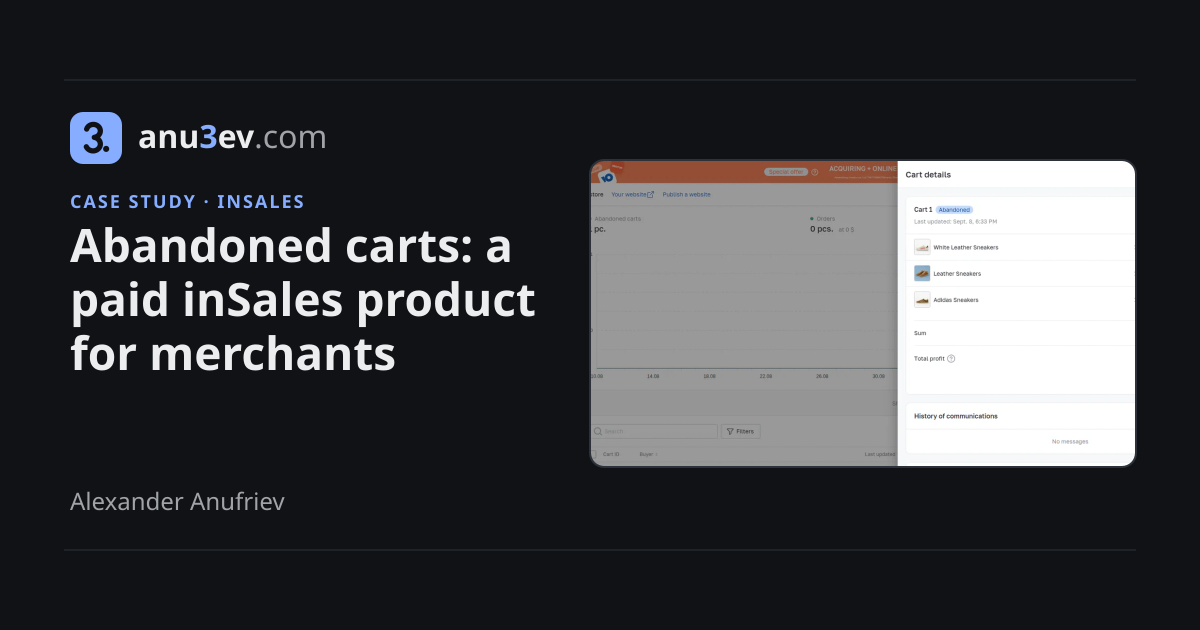
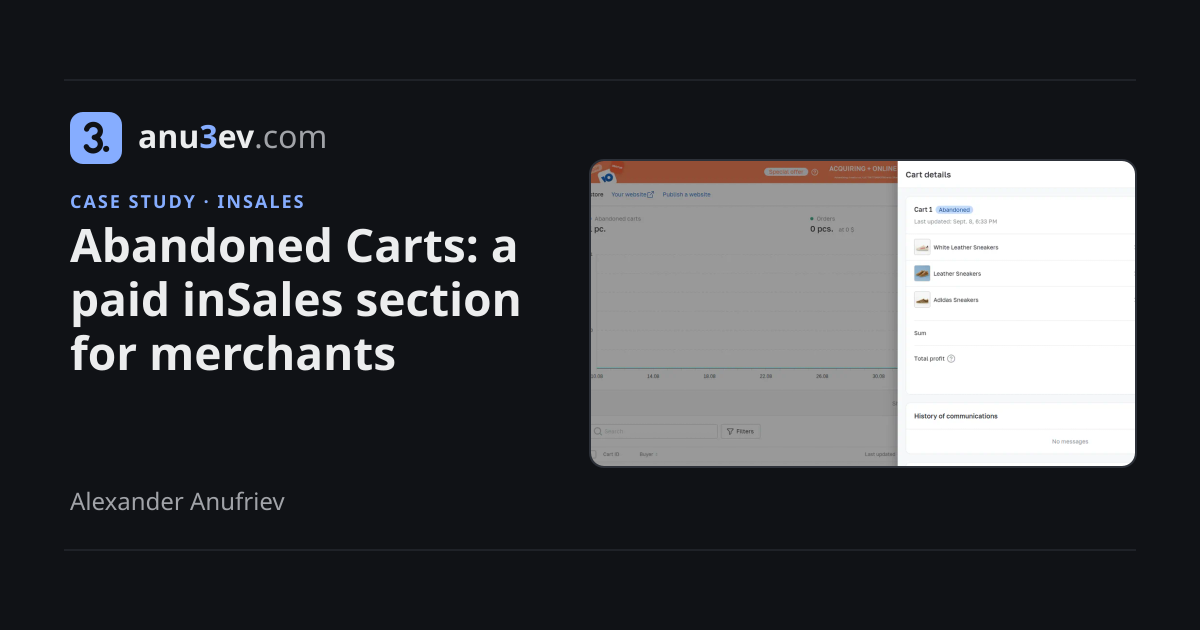
Abandoned carts case rebuilt from the project note; release 1.8.8

Changed region(s): [[0.2775, 0.4524, 0.4625, 0.5127], [0.2775, 0.3619, 0.4317, 0.4222]]

diff --git a/content/ru/projects/abandoned-carts.md b/content/ru/projects/abandoned-carts.md
@@ -1,6 +1,6 @@
 ---
-title: «Брошенные корзины» — платный продукт inSales для продавцов
-description: Аналитика, история корзин, фильтры и ручные, массовые и автоматические напоминания в админке inSales. Был единственным frontend-разработчиком; у продукта 200+ активных платных подписчиков.
+title: Платный раздел «Брошенные корзины» для продавцов inSales
+description: "Продавцы не видели, кто ушёл с корзиной и что в ней было. Я был единственным frontend-разработчиком платного раздела «Брошенные корзины»: аналитика, версии корзины и сообщения покупателям. За первую неделю раздел оплатили 11 магазинов, на сентябрь 2026 года у него 200+ подписок."
 locale: ru
 slug: abandoned-carts
 published: true
@@ -9,58 +9,95 @@ coverAlt: 'Дровер «Детали корзины» в админке inSale
 category: Инструменты для продавцов
 year: Октябрь 2024 – апрель 2025
 context: inSales
-role: "Единственный frontend-разработчик: требования, контракты API, разработка, релиз"
-stack: [Vue.js, JavaScript, Data Visualization, REST APIs, Front-End Development, State Management, Responsive Web Design, Requirements Analysis, Technical Documentation, Vue Router, Monaco Editor, E-Commerce Development, Software Architecture, ApexCharts, Software as a Service (SaaS)]
+role: "Единственный frontend-разработчик: требования, согласование API, разработка, релиз"
+stack: [Vue.js, JavaScript, Vue Router, ApexCharts, Monaco Editor, REST API]
 featured: false
 order: 5
 results:
   - value: "200+"
     label: "активных платных подписчиков на сентябрь 2026 года"
+  - value: "11"
+    label: "магазинов оплатили раздел за первую неделю после релиза, ещё до анонса"
   - value: "15%"
-    label: "клиентов одного магазина вернулись и завершили покупку, по кейсу inSales (май 2025)"
+    label: "клиентов «Хайтед» возвращаются и завершают покупку благодаря ретаргетингу (кейс inSales, май 2025)"
 ---
-
 ## Задача
 
-Пока покупатель не оформил заказ, у магазина нет карточки заказа, с которой можно работать. Но товары уже выбраны, и продавцу полезно знать, что именно человек положил в корзину, на какую сумму и менялся ли состав. «Брошенные корзины» — платный продукт inSales, который позволяет с этим что-то сделать: найти незавершённые покупки зарегистрированных покупателей, изучить их и написать покупателю прямо из админки.
+Покупатель набрал товары в корзину интернет-магазина и ушёл, не оформив заказ. До нового раздела продавец на inSales мог отправить такому покупателю только одно автоматическое письмо по шаблону из раздела «Диалоги». В январе 2025 года этот шаблон был включён у 259 платящих магазинов. При этом продавец не видел, кто ушёл, что лежало в корзине и сработало ли напоминание. По оценке тимлида на октябрь 2024 года, у 325 магазинов набиралось более 50 брошенных корзин в месяц, а у 1 077 магазинов было хотя бы 10.
 
-В продукте собраны аналитика, таблица корзин с фильтрами, детали и история корзины, история коммуникаций, шаблоны сообщений с предпросмотром и платный доступ. Всё это связано между собой: фильтр определяет получателей массовой рассылки, выбранная корзина даёт данные для предпросмотра, отправка обновляет таблицу и историю.
+Новый платный раздел «Брошенные корзины» должен был показать продавцу каждую брошенную корзину с составом, суммой и историей изменений, чтобы продавец мог написать покупателю по email, SMS или в мессенджер, вручную или автоматически. Раздел работает только с корзинами зарегистрированных покупателей: собирать корзины неавторизованных посетителей нарушало бы законодательство.
 
 ## Моя роль
 
-Был единственным frontend-разработчиком, работал с backend-разработчиком, продакт-менеджером, дизайнером и QA. Поначалу задача во многом состояла из макетов. Я превратил их в технические требования: сущности, состояния, пограничные случаи и структуру JSON для каждого блока — согласовал с дизайнером и backend-разработчиком. Дальше разбил работу на задачи, сделал интерфейс, расписал сценарии для QA и довёл раздел через ревью до релиза. Хранение корзин, расчёт аналитики и отправку по расписанию делает backend. Основная разработка шла с октября 2024 по апрель 2025 года итерациями, параллельно с другими задачами.
+Я был единственным frontend-разработчиком в команде, где также работали backend-разработчик, продакт-менеджер, дизайнер и QA. Backend-разработчик делал хранение корзин, расчёт аналитики и отправку сообщений по расписанию, а я отвечал за frontend раздела: от технических требований и согласования API до тестирования и выкатки. Основная разработка шла с октября 2024 по апрель 2025 года, итерациями и параллельно с другими задачами.
+
+Вначале задача во многом состояла из макетов. Я превратил их в технические требования: определил сущности и состояния, разобрал спорные сценарии и пограничные случаи, согласовал логику раздела с дизайнером, а структуру данных для каждого блока с backend-разработчиком. Структуру API для frontend я в основном предлагал сам. Например, сначала один запрос возвращал и статус подключения раздела, и все корзины сразу, из-за чего таблицу нельзя было вынести в отдельный компонент. Я предложил проверять статус отдельным запросом, в ноябре 2024 года так и сделали, и после этого я вынес таблицу в отдельный компонент. Встречи по проекту часто собирал я: составлял повестку, а после созвона писал итоги с решениями и ответственными.
 
 ## Что я сделал
 
-### Корзина — это история, а не строка таблицы
+### Аналитика показывает, сколько денег осталось в корзинах
 
-Покупатель может уйти, вернуться и поменять состав. Это одна корзина с несколькими сохранёнными версиями, а не две потерянные продажи. Модель мы согласовали вместе: сессия корзины, версия, актуальная версия, оформленный заказ и сообщения, привязанные к конкретной версии. В таблице номер корзины стабильный и не меняется при каждом обновлении, в деталях видны 10 последних версий. Один товар может лежать в корзине дважды с разными опциями, поэтому строки истории я различал по ключу позиции, а не по `id` товара.
+С аналитики начинается раздел, и её выкатили первой, 28 октября 2024 года. Продавец видит среднюю стоимость брошенной корзины, сумму товаров в неоформленных корзинах, число брошенных корзин, их динамику и конверсию корзин в заказы. Бизнес-показатели считаются на сервере. Пока серверная часть не была готова, я собирал интерфейс на моках.
 
-### Сообщение показывает корзину на момент отправки
+От цифр продавец переходит к таблице корзин с поиском и фильтрами, например по наличию email или телефона, а корзина из таблицы открывается в дровере «Детали корзины», боковой панели поверх страницы. Период аналитики не зависит от фильтров таблицы, поэтому продавец может смотреть динамику за месяц и одновременно работать со своей выборкой корзин.
 
-Если открыть сообщение из истории, интерфейс показывает состав корзины на момент отправки, а не текущий. Если подставить туда последнюю версию, история общения с покупателем исказится. Статусы «не отправлено», «ошибка» и «отправлено» в истории тоже различаются. После успешной отправки таблица и детали корзины перезагружаются, чтобы статус на экране не опережал сервер.
+### Корзина хранит историю версий
 
-### Экран обновляет только последний ответ
+Одной из главных задач было согласовать, что считать одной корзиной. Покупатель может уйти, вернуться и поменять состав. Это одна корзина с несколькими сохранёнными версиями, а не два покупателя и не две потерянные продажи. Версия создаётся, когда корзина не меняется заданное в настройках время, а после оформления заказа новая корзина начинает новую цепочку версий. В таблице продавец видит одну корзину с актуальной версией, номер которой не меняется при обновлении состава, а предыдущие версии становятся её историей.
 
-Продавец печатает в поиске, листает страницы, открывает одну корзину за другой, не дожидаясь ответов. Запоздавший ответ на старый запрос не должен затирать свежие результаты. Я помечал поисковые запросы идентификаторами и отбрасывал устаревшие ответы, отменял загрузку дровера через `AbortController` при закрытии и перестал рендерить закрытые дроверы, чтобы скрытая панель не реагировала на изменения данных. Поиск, фильтры, пагинация и открытая корзина хранятся в URL: после перезагрузки или по присланной ссылке открывается тот же экран.
+![Дровер «Детали корзины» в админке inSales: три товара, сумма корзины, кнопка оформления заказа и пустая история коммуникаций](/images/work/abandoned-carts/cart-details-drawer.webp)
+
+В деталях корзины видны 10 последних версий, и это ограничение появилось из-за случая, который я проверил заранее. Если время, через которое корзина считается брошенной, задать небольшим, у одной корзины быстро набирается много версий. Я создал на локальном стенде корзину с 200 версиями, и её история загружалась около 20 секунд. На продакшене на 25 ноября 2024 года самые длинные цепочки доходили до 74 версий, и коллеги считали, что до 200 не дойдёт, но я настоял, что такой случай лучше учесть до релиза, чем потом переделывать раздел.
+
+Один товар может присутствовать в корзине в виде нескольких экземпляров с разными опциями, поэтому в истории изменений я различал позиции по ключу `key`, а не по `id` товара. Иначе интерфейс принял бы две разные позиции за одну.
+
+### Экран показывает ответ только на последний запрос
+
+Продавец печатает в поиске, листает страницы и открывает одну корзину за другой, не дожидаясь ответов. Если на экран попадёт запоздавший ответ на старый запрос, продавец увидит не того покупателя или не ту версию товаров. Поэтому я помечал поисковые запросы идентификаторами и отбрасывал ответы, которые пришли не на последний запрос. Загрузку дровера я отменял через `AbortController`, стандартный браузерный механизм отмены запросов, если дровер закрывали.
+
+Поиск, фильтры, номер страницы и открытая корзина хранятся в URL, поэтому после перезагрузки или по присланной ссылке открывается тот же экран.
+
+### Каждый канал настраивается отдельно
+
+Для автоматических напоминаний продавец задаёт, через сколько корзина считается брошенной и через сколько после этого уходит напоминание. Сами напоминания по расписанию отправляет сервер, поэтому они уходят, даже когда у продавца не открыта админка.
+
+Сначала включить автоматическую отправку можно было только в «Диалогах». А 5 декабря 2024 года я нашёл проблему: из раздела можно было отправить письмо вручную, но если у магазина не была настроена доменная почта, письмо никуда не уходило, и интерфейс об этом ничего не говорил. После созвона 6 декабря решили сделать у каждого канала свои настройки: состояние подключения, переключатель автоматической отправки, задержку и шаблон, а для ненастроенного канала показывать сообщение со ссылкой на подключение. В форме отправки остались только работающие каналы.
 
 ![Настройки брошенных корзин: время, через которое корзина считается брошенной, и шаблон письма в редакторе кода](/images/work/abandoned-carts/reminder-settings-email-template.webp)
 
-*Настройки напоминаний: когда корзина считается брошенной, затем задержка и шаблон для каждого канала.*
+В продукте пять каналов: email, SMS, WhatsApp, Telegram и Viber. Какие из них доступны, зависит от настроек и региона аккаунта: например, для российских аккаунтов Viber скрыт.
 
-### У доступа больше двух состояний
+### Массовая отправка показывает, кому сообщение не уйдёт
 
-Одного признака «подписка есть» не хватало. Сервер отдаёт состояние пробного периода и его окончание, просрочку оплаты, счета, цену и остаток сообщений, и от этого зависят баннеры, кнопки и настройки. После запуска пробного периода настройки становятся доступны сразу. Платёжный компонент создаётся только при открытии диалога оплаты, чтобы скрытое окно не запускало свои операции.
+Продавец может написать одному покупателю или выбрать несколько корзин и отправить общее сообщение. При массовой отправке у части выбранных покупателей может не быть email или телефона. Я поднял вопрос, отправлять ли тогда сообщение остальным или не отправлять никому, и предложил не блокировать канал, если нужный контакт есть хотя бы у одного выбранного покупателя. По итогам обсуждения массовую отправку сделали только по email и SMS, добавили фильтры «есть email» и «есть телефон», и форма стала показывать, у скольких покупателей нет нужного контакта, и предлагать отфильтровать подходящие корзины. Для этого я предложил новую структуру данных формы, и backend-разработчик её сделал.
 
-### Три способа отправки и один процесс работы с шаблоном
+Действие «выбрать все корзины на всех страницах» мы не стали делать. У магазина могут быть десятки тысяч корзин: данные для всех пришлось бы собирать серией запросов несколько минут, а отправка сообщений сразу всем этим покупателям могла перегрузить сервер. Поэтому выбор работает на текущей странице, и его можно дополнить на следующих.
 
-Продавец может написать одному покупателю, выбрать корзины на нескольких страницах для массового письма или SMS либо настроить автоматические напоминания по каждому каналу. Перед массовой отправкой форма показывает, у скольких выбранных покупателей нет нужного контакта, и предлагает их отфильтровать. Действие «выбрать вообще все корзины» мы сознательно не стали делать: оно могло дать большую нагрузку. Шаблоны редактируются в нашем общем [редакторе на Monaco](/ru/work/monaco-editor/), а предпросмотр подставляет в Liquid товары, количество и суммы выбранной корзины.
+### Шаблоны редактируются как код, с предпросмотром
+
+Сообщения строятся по шаблонам на Liquid, языке шаблонов, через который в текст подставляются имя покупателя, товары, цены и ссылки. Сначала шаблоны писем редактировались в визуальном редакторе TinyMCE, и он ломал Liquid: кодировал часть символов и обрезал теги и атрибуты, после чего сервер уже не мог использовать сохранённый текст как шаблон. Я предложил заменить его редактором исходного кода с предпросмотром, а затем сделать то же для SMS и мессенджеров, потому что в их шаблонах тоже есть Liquid-переменные и им тоже нужен предпросмотр.
+
+Я подключил общую сборку [редактора на Monaco](/ru/work/monaco-editor/), над которой работал раньше. Предпросмотр запрашивает у сервера шаблон, заполненный данными конкретной корзины: именем покупателя, товарами, количеством, ценами и итогом, поэтому продавец видит готовое сообщение до отправки.
 
 ![Предпросмотр письма с данными выбранной корзины рядом с формой сообщения](/images/work/abandoned-carts/email-preview-with-cart-data.webp)
 
+### Сообщение показывает корзину на момент отправки
+
+Каждое отправленное сообщение попадает в историю коммуникаций и связано с конкретной версией корзины. Если покупатель поменял товары после напоминания, сообщение показывает состав корзины на момент отправки, а не текущий. Иначе история общения с покупателем исказилась бы, и продавец не понял бы, что именно уже предлагал. После отправки таблица и детали корзины загружаются заново, чтобы принятый сервером запрос не выглядел как доставленное сообщение.
+
+### У доступа больше двух состояний
+
+Раздел платный, поэтому магазин сначала запускает пробный период на 7 дней и 100 сообщений, а потом подключает подписку за 1 000 ₽ в месяц. Одного признака «подписка есть» для интерфейса не хватало: сервер отдаёт состояние пробного периода, дату его окончания, просрочку оплаты, счета, стоимость и остаток сообщений, и от этого зависят баннеры, кнопки и настройки. Когда доступ меняется, интерфейс обновляется сразу: например, после запуска пробного периода становятся доступны настройки.
+
+### Перед релизом раздел прошёл тестирование QA
+
+Я описывал сценарии для QA: закрытие дровера во время запроса, повторный поиск, пустая выборка, товары с опциями, связь корзины с заказом, отсутствие контактов, состояние канала и предпросмотр шаблона. К 16 декабря 2024 года QA нашли более 40 багов, которые исправили перед релизом.
+
+Раздел адаптирован под десктоп и мобильные. Для него я доработал календарь, фильтр и таблицу в UI kit, общей библиотеке интерфейсных компонентов inSales.
+
 ## Результат
 
-- У продукта 200+ активных платных подписчиков (на сентябрь 2026 года). Базовая цена — 1 000 ₽ в месяц после 7-дневного пробного периода.
-- В кейсе, опубликованном в мае 2025 года, inSales сообщает, что ретаргетинг по брошенным корзинам принёс одному магазину, «Хайтед», 100–350 тыс. ₽ в месяц, а 15% клиентов возвращаются и завершают покупку. Это результат одного магазина, а не средний по платформе, и он не сводится к работе frontend.
-- Аналитику выпустили в октябре 2024 года, остальной frontend доделали и выпустили к апрелю 2025-го.
-- Раздел адаптирован под десктоп и мобильные, а доработки date picker, фильтра и таблицы вошли в общий UI kit.
+- Раздел выкатили в продакшен 31 марта 2025 года. За первую неделю, ещё до анонса, его оплатили 11 магазинов.
+- На сентябрь 2026 года у раздела более 200 активных платных подписчиков.
+- Продавец видит в одном разделе, кто ушёл с корзиной, что в ней было и как менялся состав, и пишет покупателю вручную, массово или автоматически.
+- В [кейсе от 20 мая 2025 года](https://www.insales.ru/blogs/cases/hited) inSales сообщает, что ретаргетинг по брошенным корзинам, то есть повторные сообщения покупателям, которые не оформили заказ, приносит магазину «Хайтед» 100–350 тыс. ₽ в месяц, а 15% клиентов возвращаются и завершают покупку.

diff --git a/content/en/projects/abandoned-carts.md b/content/en/projects/abandoned-carts.md
@@ -1,6 +1,6 @@
 ---
-title: "Abandoned carts: a paid inSales product for merchants"
-description: Analytics, cart history, filters and manual, bulk and automatic reminders in the inSales admin. I was the sole frontend developer; the product has 200+ active paid subscribers.
+title: "Abandoned Carts: a paid inSales section for merchants"
+description: "Merchants couldn’t see who left a cart or what was in it. I was the only frontend developer of Abandoned Carts, a paid inSales section with analytics, cart versions and messages to buyers. 11 stores paid for it in the first week; by September 2026 it had 200+ subscribers."
 locale: en
 slug: abandoned-carts
 published: true
@@ -9,58 +9,95 @@ coverAlt: Cart details drawer in the inSales admin listing three products, the c
 category: Merchant tools
 year: Oct 2024 – Apr 2025
 context: inSales
-role: "Sole frontend developer: requirements, API contracts, implementation, release"
-stack: [Vue.js, JavaScript, Data Visualization, REST APIs, Front-End Development, State Management, Responsive Web Design, Requirements Analysis, Technical Documentation, Vue Router, Monaco Editor, E-Commerce Development, Software Architecture, ApexCharts, Software as a Service (SaaS)]
+role: "Sole frontend developer: requirements, API design with the backend, implementation, release"
+stack: [Vue.js, JavaScript, Vue Router, ApexCharts, Monaco Editor, REST API]
 featured: false
 order: 5
 results:
   - value: "200+"
     label: "active paid subscribers by September 2026"
+  - value: "11"
+    label: "stores paid for the section in the first week after release, before any announcement"
   - value: "15%"
-    label: "of one merchant’s customers returned to complete a purchase, per an inSales case study (May 2025)"
+    label: "of Hited’s customers come back and complete a purchase thanks to retargeting (inSales case study, May 2025)"
 ---
-
 ## The problem
 
-Before checkout, a store has no order to work with. Yet the shopper has already picked products, and the merchant would like to know what they chose, for how much, and whether the cart changed since. Abandoned Carts is a paid inSales product that turns this into something to act on: the merchant finds unfinished purchases by registered customers, inspects them and follows up from the admin.
+A buyer adds products to an online store’s cart and leaves without placing an order. Before the new section, a merchant on inSales could send such a buyer only one automatic email, from a template in the Dialogues section. In January 2025, 259 paying stores had that template turned on. But the merchant couldn’t see who had left, what was in the cart or whether the reminder worked. According to the team lead’s estimate in October 2024, 325 stores had more than 50 abandoned carts a month, and 1,077 stores had at least 10.
 
-The product combines analytics, a cart table with filters, cart details and history, communication history, message templates with preview, and paid access. Each of these depends on the others: a filter decides who gets a bulk message, the selected cart feeds the preview, a send updates the table and the history.
+The new paid Abandoned Carts section had to show the merchant every abandoned cart with its products, total and history of changes, so the merchant could write to the buyer by email, SMS or a messenger, manually or automatically. The section works only with carts of registered buyers: collecting the carts of visitors who aren’t signed in would break the law.
 
 ## My role
 
-I was the only frontend developer, working with a backend developer, a product manager, a designer and QA. The task started mostly as mockups. I turned them into technical requirements: entities, states and edge cases, and the JSON structure for every block, agreed with the designer and the backend developer. Then I split the work, built the interface, wrote QA scenarios and took it through review and release. The backend stores carts, calculates analytics and runs scheduled sending. Main development ran from October 2024 to April 2025, in iterations alongside other work.
+I was the only frontend developer on a team with a backend developer, a product manager, a designer and a QA engineer. The backend developer built cart storage, the analytics calculations and scheduled sending, and I owned the section’s frontend: from technical requirements and agreeing the API with the backend developer to testing and release. The main development ran from October 2024 to April 2025, in iterations and alongside other tasks.
+
+At first, the task was mostly a set of mockups. I turned them into technical requirements: I defined the entities and states, worked through unclear scenarios and edge cases, agreed on the section’s logic with the designer and on the data structure for each block with the backend developer. I proposed most of the API structure for the frontend myself. For example, at first one request returned both the section’s connection status and all carts at once, so the table couldn’t be moved into a separate component. I suggested checking the status with a separate request; in November 2024 that was done, and I then moved the table into its own component. I often organized the project meetings: I wrote the agenda, and after each call I wrote up the decisions and who was responsible for what.
 
 ## What I built
 
-### A cart is a history, not a row
+### The analytics show how much money is left in carts
 
-A shopper can leave a cart, come back and change it. That is one cart with several saved versions, not two lost sales. We agreed on the model together: cart session, version, latest version, resulting order, and messages tied to a specific version. The table shows a stable cart number that does not change with each update, and cart details show the last 10 versions. A product can appear twice with different options, so I keyed history rows by line-item key instead of product ID.
+The section starts with analytics, which shipped first, on 28 October 2024. The merchant sees the average abandoned cart value, the total value of products in carts without an order, the number of abandoned carts, their trend over time and the cart-to-order conversion rate. The business metrics are calculated on the server. While the server side wasn’t ready, I built the interface on mock data.
 
-### Messages keep the cart they were sent about
+From the numbers, the merchant moves to a table of carts with search and filters, for example by whether the buyer has an email or a phone number, and a cart from the table opens in the Cart details drawer, a side panel over the page. The analytics period doesn’t depend on the table filters, so the merchant can look at the trend for a month while working with their own selection of carts.
 
-When a merchant opens a message from the history, the interface shows the cart contents at the time it was sent, not the current ones. Showing the latest contents there would quietly rewrite the conversation with the customer. History also distinguishes not sent, failed and sent, and after a successful send the table and cart details reload, so the status never runs ahead of the server.
+### A cart keeps a history of versions
 
-### Only the latest response may update the screen
+One of the main tasks was to agree on what counts as one cart. A buyer can leave, come back and change the products. That’s one cart with several saved versions, not two buyers and not two lost sales. A version is created when the cart stays unchanged for a time set in the settings, and after an order is placed, a new cart starts a new chain of versions. In the table, the merchant sees one cart with its current version; the cart’s number stays the same when the products change, and the earlier versions become its history.
 
-Merchants type in search, flip pages and open one cart after another before responses arrive. A late answer to an old query must not replace newer results. I tagged search requests with IDs and dropped stale responses, cancelled drawer loads with `AbortController` when the drawer closed, and stopped rendering closed drawers so a hidden panel cannot react to data changes. Search, filters, pagination and the open cart live in the URL, so a page reload or a shared link restores the same view.
+![Cart details drawer in the inSales admin listing three products, the cart total, a Place an order button and an empty communication history](/images/work/abandoned-carts/cart-details-drawer.webp)
+
+The cart details show the last 10 versions, and this limit comes from a case I checked in advance. If the time after which a cart counts as abandoned is set short, one cart quickly collects many versions. I created a cart with 200 versions in my local environment, and its history took about 20 seconds to load. As of 25 November 2024, the longest chains in production reached 74 versions. Colleagues thought it would never get to 200, but I insisted it was better to handle this case before the release than to rework the section later.
+
+The same product can appear in a cart as several items with different options, so in the history of changes I distinguished items by the item `key`, not by the product `id`. Otherwise the interface would have treated two different items as one.
+
+### The screen shows only the response to the latest request
+
+A merchant types in the search box, goes through pages and opens one cart after another without waiting for responses. If a late response to an old request reached the screen, the merchant would see the wrong buyer or the wrong version of the products. So I tagged search requests with IDs and dropped responses that didn’t belong to the latest request. I canceled drawer loading with `AbortController`, the standard browser way to cancel requests, when the merchant closed the drawer.
+
+Search, filters, the page number and the open cart are stored in the URL, so after a reload or from a shared link the same screen opens.
+
+### Each channel has its own settings
+
+For automatic reminders, the merchant sets how long it takes before a cart counts as abandoned and how long after that the reminder goes out. The server sends the scheduled reminders, so they go out even when the merchant doesn’t have the inSales admin open.
+
+At first, automatic sending could be turned on only in Dialogues. Then, on 5 December 2024, I found a problem: a merchant could send an email manually from the section, but if the store had no email on its own domain set up, the email was never sent and the interface said nothing about it. After a call on 6 December, we decided that each channel would get its own settings: whether the channel is set up, an automatic sending toggle, a delay and a template, and a channel that isn’t set up shows a message with a link to connect it. The send form now shows only channels that work.
 
 ![Abandoned cart settings with the time before a cart counts as abandoned and an email template in the code editor](/images/work/abandoned-carts/reminder-settings-email-template.webp)
 
-*Reminder settings: when a cart counts as abandoned, then a per-channel delay and template.*
+The product has five channels: email, SMS, WhatsApp, Telegram and Viber. Which ones are available depends on the store’s settings and region: for example, Viber is hidden for Russian accounts.
 
-### Access has more than two states
+### Bulk sending shows who won’t get the message
 
-One "subscribed" flag was not enough. The server returns trial state and expiry, overdue payment, invoices, price and remaining message limits, and those drive banners, buttons and settings. After a trial starts, settings become available immediately. The payment component is created only when its dialog opens, so a hidden dialog never starts its own operations.
+A merchant can write to one buyer, or select several carts and send one message to all of them. In bulk sending, some of the selected buyers may have no email or phone number. I raised the question of whether to send the message to the rest or to nobody, and suggested not blocking a channel if at least one selected buyer has the needed contact. After the discussion, bulk sending was limited to email and SMS, and "has email" and "has phone" filters were added. The form now shows how many buyers lack the needed contact and offers to filter for suitable carts. For that, I proposed a new data structure for the form, and the backend developer built it.
 
-### Three ways to send, one template workflow
+We didn’t build a "select all carts on all pages" action. A store can have tens of thousands of carts: collecting data for all of them would take a series of requests lasting several minutes, and sending messages to all those buyers at once could overload the server. So selection works on the current page, and the merchant can add carts from other pages.
 
-Merchants can message one customer, select carts across pages for a bulk email or SMS, or configure automatic reminders per channel. Before a bulk send, the form shows how many selected customers lack the required contact and offers to filter them out. We deliberately left out a "select every cart" action because of the load it could create. Templates are edited in our shared [Monaco-based editor](/work/monaco-editor/), and the preview renders Liquid with the selected cart’s products, quantities and totals.
+### Templates are edited as code, with a preview
+
+Messages are built from templates in Liquid, a template language that inserts the buyer’s name, products, prices and links into the text. At first, email templates were edited in the TinyMCE visual editor, and it broke Liquid: it encoded some characters and removed tags and attributes, after which the server could no longer use the saved text as a template. I suggested replacing it with a source code editor with a preview, and then doing the same for SMS and messengers, because their templates also contain Liquid variables and also need a preview.
+
+I reused the shared [Monaco editor build](/work/monaco-editor/) I had worked on before. The preview asks the server for the template filled with a specific cart’s data: the buyer’s name, products, quantities, prices and total, so the merchant sees the final message before sending it.
 
 ![Email preview rendered with the selected cart’s data next to the message form](/images/work/abandoned-carts/email-preview-with-cart-data.webp)
 
+### A message shows the cart as it was when the message was sent
+
+Every sent message goes into the communication history and is linked to a specific cart version. If the buyer changed the products after a reminder, the message shows the cart as it was when the message was sent, not as it is now. Otherwise the communication history would be wrong, and the merchant wouldn’t know what had already been offered. After sending, the table and cart details reload, so the merchant sees the status the server returns, and a request the server only accepted doesn’t look like a delivered message.
+
+### Access has more than two states
+
+The section is paid, so a store first starts a 7-day trial with 100 messages and then pays 1,000 rubles a month for a subscription. A single "has a subscription" flag wasn’t enough for the interface: the server returns the trial state and end date, overdue payments, invoices, the price and the remaining messages, and the banners, buttons and settings depend on them. When access changes, the interface updates right away: for example, after the trial starts, the settings become available.
+
+### The section went through QA testing before release
+
+I wrote test scenarios for QA: closing the drawer during a request, repeated search, an empty selection, products with options, the link between a cart and an order, missing contacts, channel state and the template preview. By 16 December 2024, QA had found more than 40 bugs, which were fixed before the release.
+
+The section works on desktop and mobile. For this section, I improved the date picker, filter and table in the UI kit, inSales’s shared library of interface components.
+
 ## Results
 
-- The product has 200+ active paid subscribers (as of September 2026), at a list price of RUB 1,000 a month after a 7-day trial.
-- In a case study published in May 2025, inSales reported that retargeting linked to abandoned carts brought one merchant, Hited, RUB 100,000–350,000 a month (about $1,200–4,400), with 15% of customers returning to complete a purchase. This is one store’s result, not a platform average, and it is not a frontend-only effect.
-- Analytics shipped in October 2024; the remaining frontend was finished and released by April 2025.
-- The section works on desktop and mobile, and the date picker, filter and data table improvements went into the shared UI kit.
+- The section went to production on 31 March 2025. In the first week, before any announcement, 11 stores paid for it.
+- By September 2026, the section had more than 200 active paid subscribers.
+- The merchant now sees in one place who left a cart, what was in it and how it changed, and writes to the buyer manually, in bulk or automatically.
+- In a [case study from 20 May 2025](https://www.insales.ru/blogs/cases/hited), inSales reports that abandoned-cart retargeting, meaning follow-up messages to buyers who didn’t place an order, brings the Hited store 100,000–350,000 rubles a month, and 15% of customers come back and complete a purchase.
